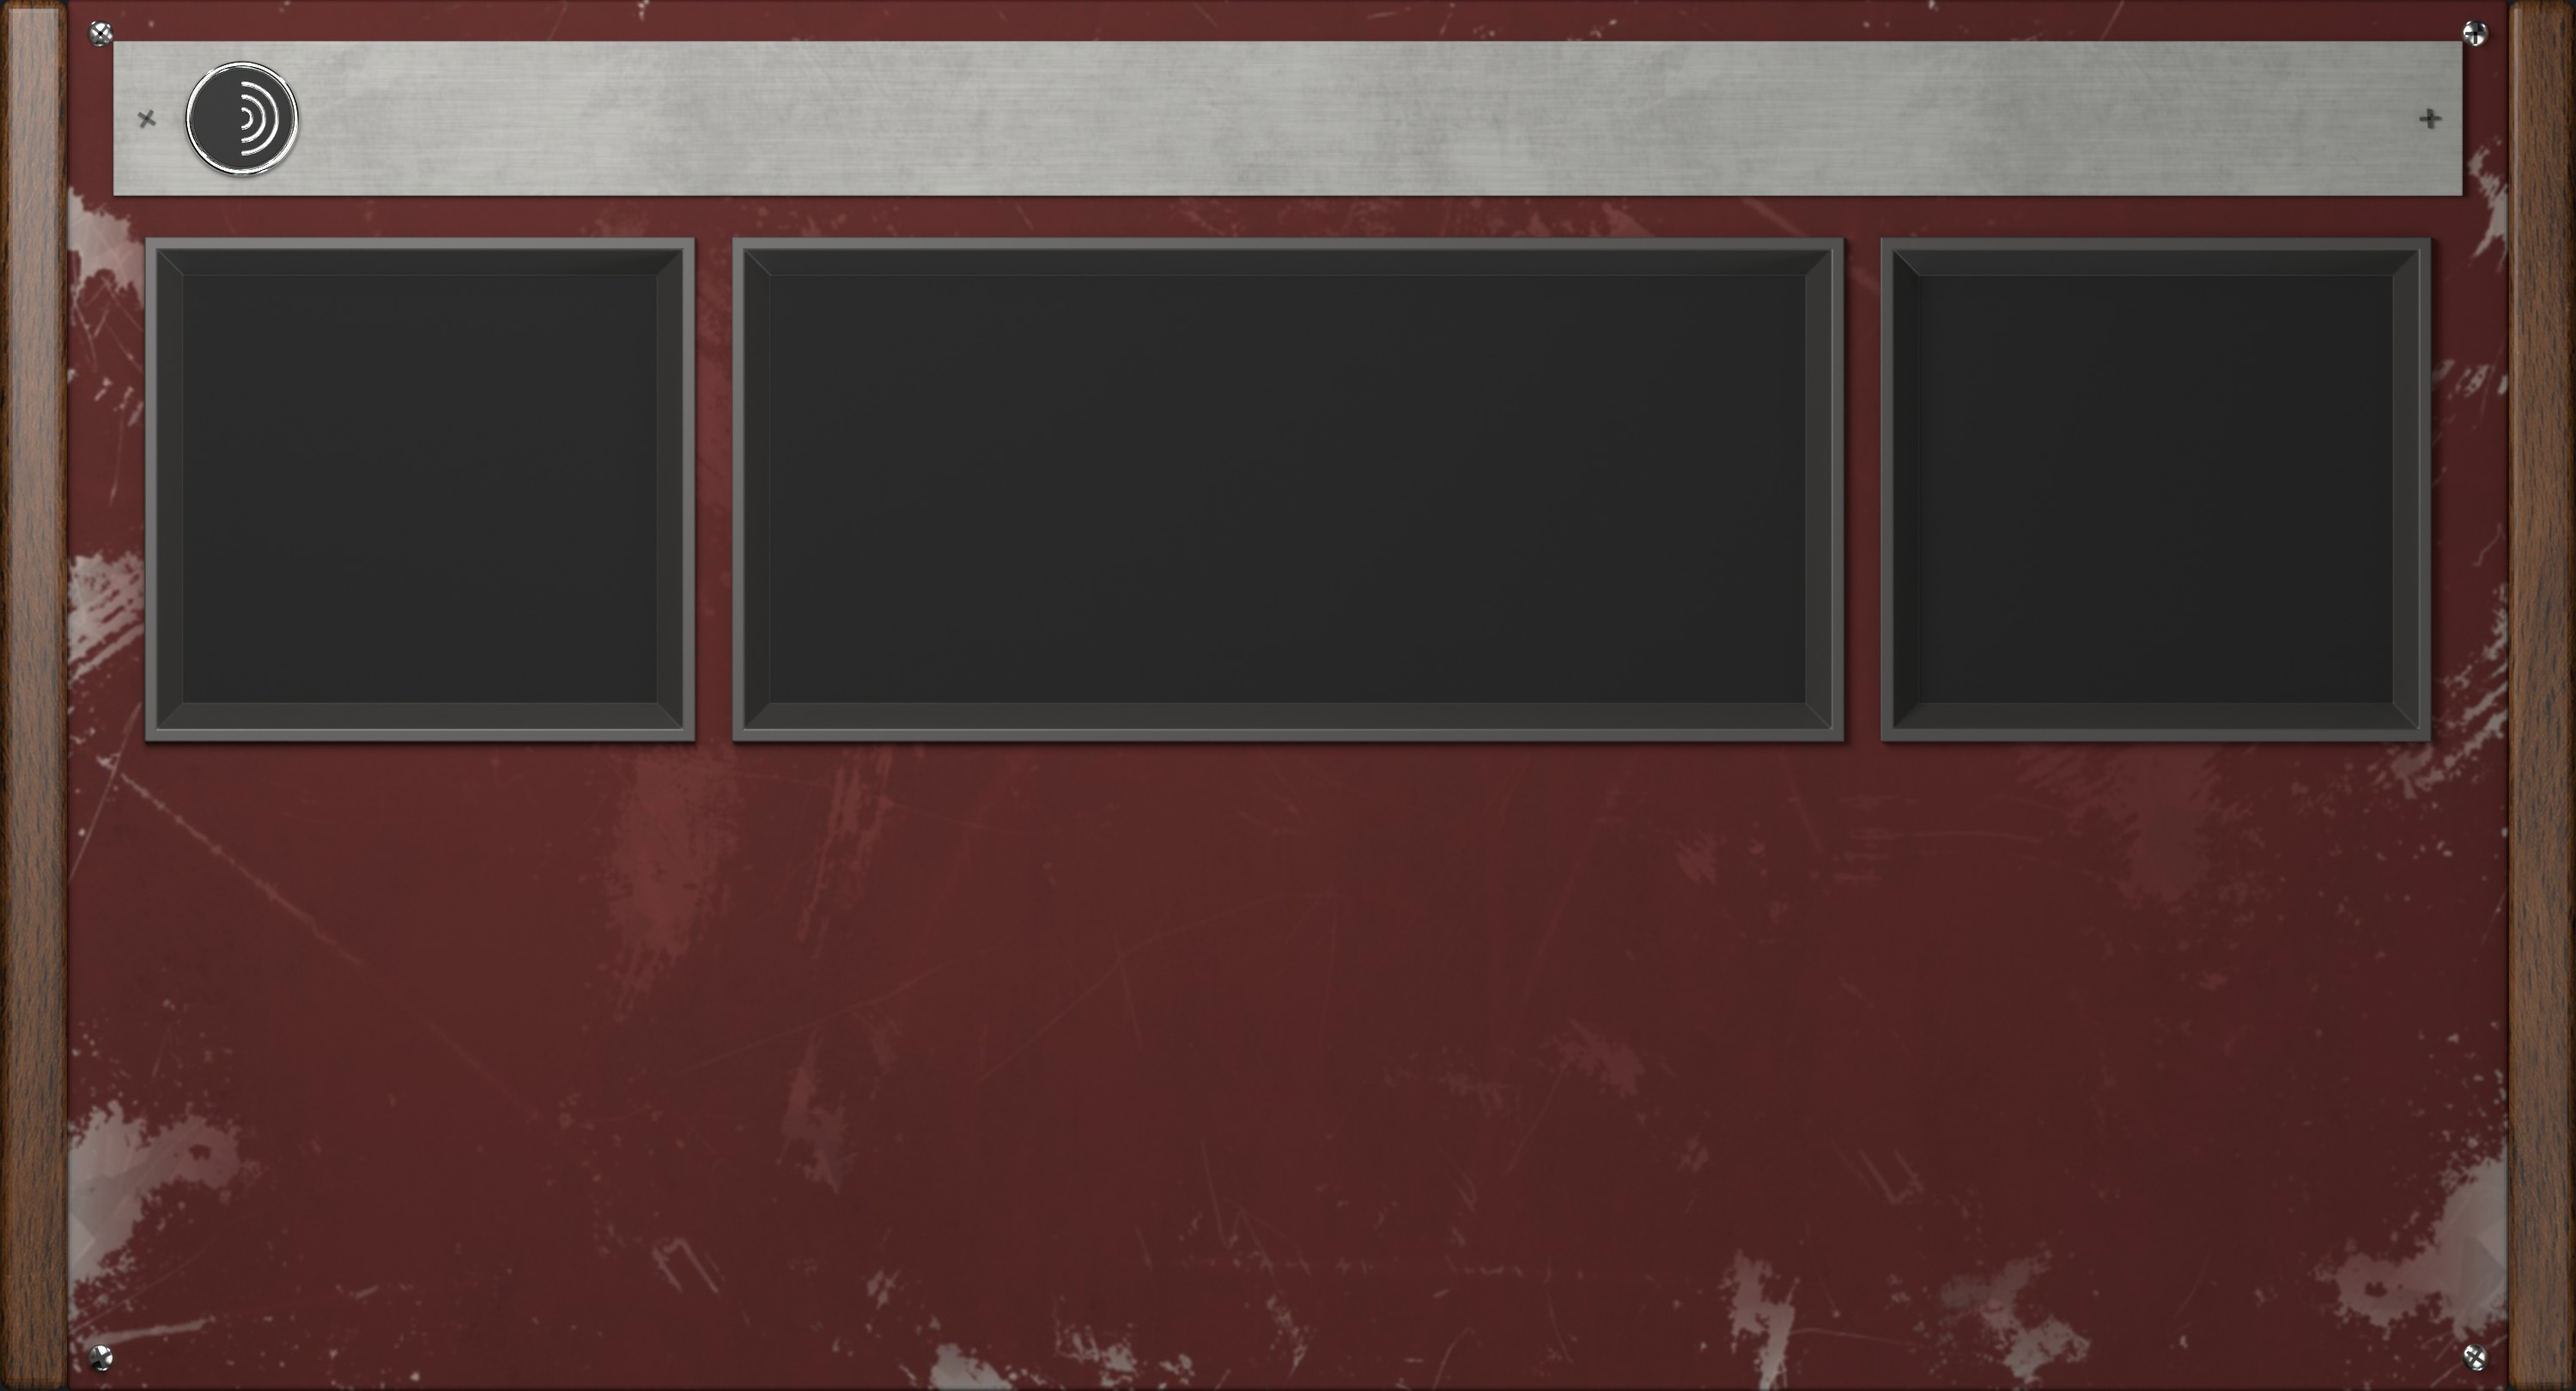
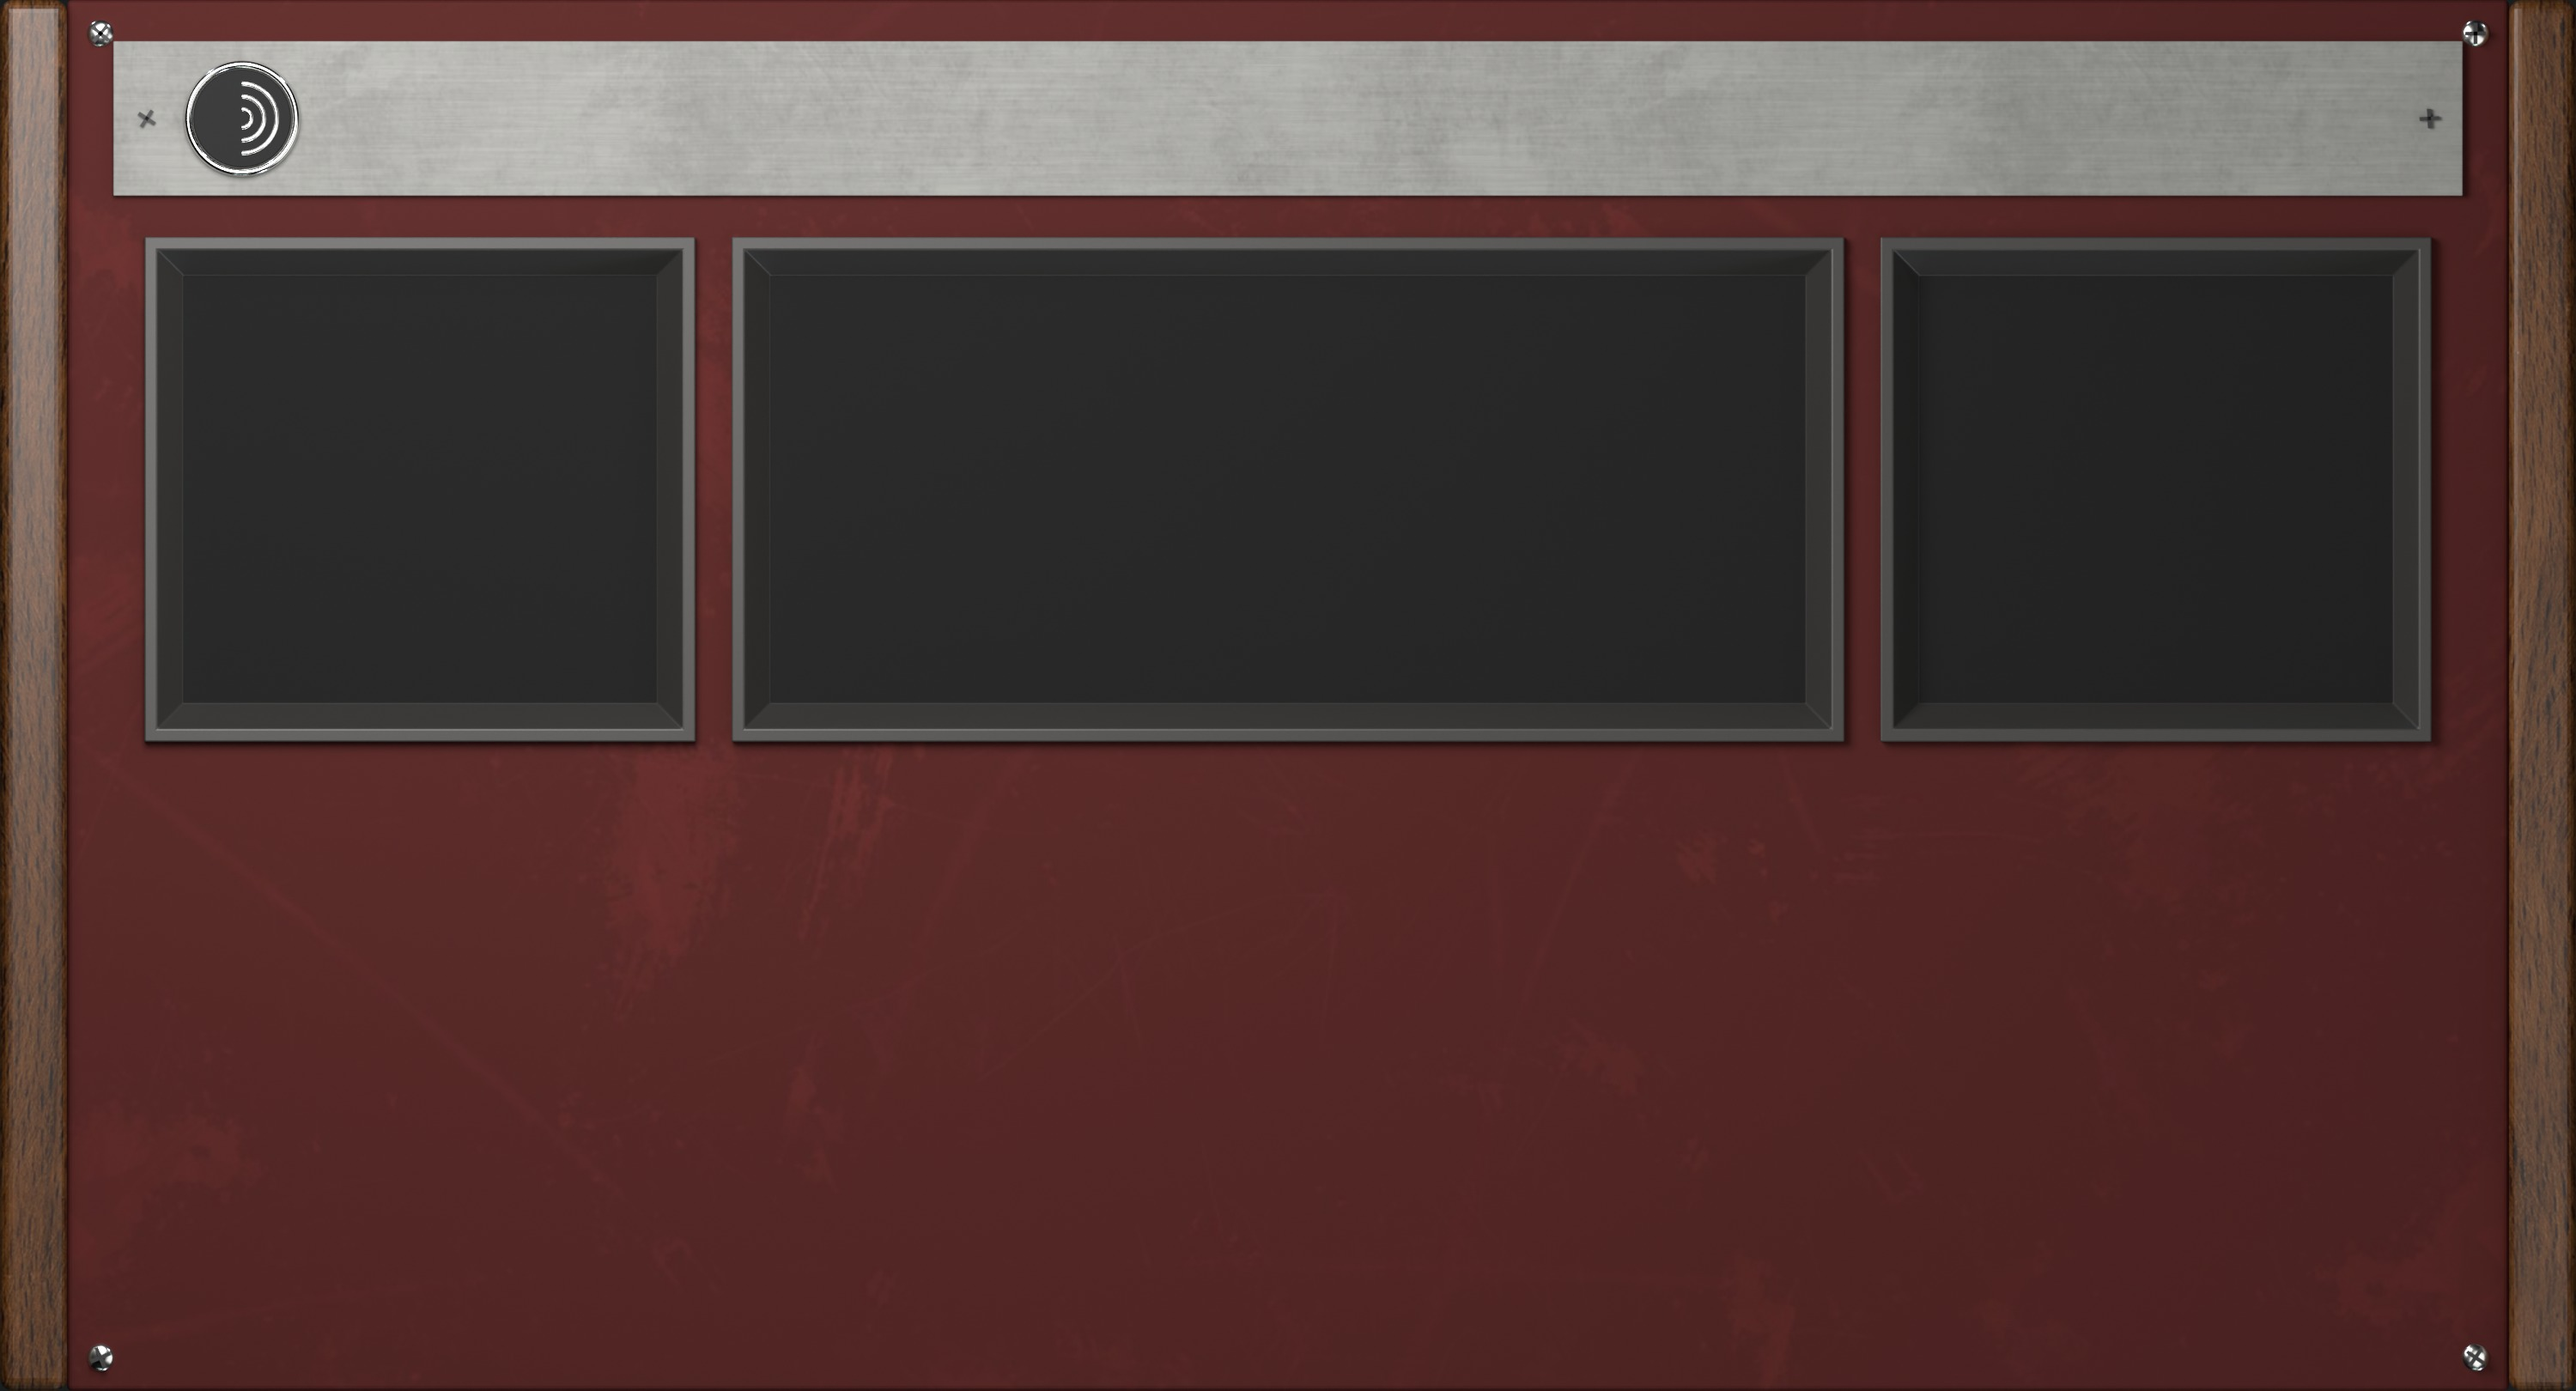
Clean finish: remove paint wear, grime, ink wear and glass smudges

diff --git a/tools/make_textures.py b/tools/make_textures.py
@@ -1,7 +1,7 @@
 """
 Bakes the UI textures in Resources/ from CC0 photo-scanned materials by ambientCG (https://ambientcg.com):
 
-    PaintedMetal004, Metal011, Wood066, SurfaceImperfections003, Fingerprints002  (1K-JPG versions)
+    PaintedMetal004, Metal011, Wood066, SurfaceImperfections003  (1K-JPG versions)
 
 Usage:
     python3 tools/make_textures.py <folder with the unzipped ambientCG downloads>
@@ -59,7 +59,7 @@ rough_src = load("PaintedMetal004", "Roughness")
 grime_src = load("SurfaceImperfections003", "Opacity")
 
 
-def painted_panel(w, h, base_rgb, chip_strength, offset, seed):
+def painted_panel(w, h, base_rgb, chip_strength, offset, seed, grime_amount=0.16):
     rng = np.random.default_rng(seed)
     base = np.array(base_rgb, np.float32) / 255.0
 
@@ -72,7 +72,7 @@ def painted_panel(w, h, base_rgb, chip_strength, offset, seed):
     wear = 0.05 + 0.95 * edge_weight(w, h, 38.0 * S)
     chip_alpha = np.clip(chips * wear * chip_strength, 0, 1)
 
-    shade = 1.0 + 0.03 * rough - 0.16 * grime + 0.015 * rng.standard_normal((h, w)).astype(np.float32)
+    shade = 1.0 + 0.03 * rough - grime_amount * grime + 0.006 * rng.standard_normal((h, w)).astype(np.float32)
     paint = base[None, None, :] * shade[..., None]
 
     steel = np.array([0.56, 0.55, 0.53], np.float32)[None, None, :] * (0.85 + 0.08 * rough[..., None])
@@ -80,8 +80,9 @@ def painted_panel(w, h, base_rgb, chip_strength, offset, seed):
     return out
 
 
-save(painted_panel(UNIT_W, TOP_H * S, (79, 31, 29), 0.85, (0, 0), 1), "panel_burgundy.jpg")
-save(painted_panel(UNIT_W, BOTTOM_H * S, (28, 27, 26), 0.32, (311, 517), 2), "panel_black.jpg")
+# Clean, well-kept finish: no chips or grime, only the paint's own subtle texture.
+save(painted_panel(UNIT_W, TOP_H * S, (79, 31, 29), 0.0, (0, 0), 1, grime_amount=0.0), "panel_burgundy.jpg")
+save(painted_panel(UNIT_W, BOTTOM_H * S, (28, 27, 26), 0.0, (311, 517), 2, grime_amount=0.0), "panel_black.jpg")
 
 # Brushed aluminium name plate (grain runs horizontally)
 alu = load("Metal011", "Color")
@@ -96,16 +97,3 @@ cheek_w, cheek_h = CHEEK_W * S, (TOP_H + BOTTOM_H) * S
 left = tile(wood[:, 180:180 + cheek_w], cheek_w, cheek_h)
 right = tile(wood[:, 640:640 + cheek_w], cheek_w, cheek_h, (400, 0))
 save(np.concatenate([left, right], axis=1) * 0.92, "wood_cheeks.jpg")
-
-# Fingerprints/smudges for glass (used as a faint white alpha mask)
-prints = load("Fingerprints002", "Opacity")
-img = Image.fromarray((prints * 255).astype(np.uint8)).resize((512, 512), Image.LANCZOS)
-img.save(os.path.join(OUT, "glass_smudges.jpg"), quality=85)
-print("glass_smudges.jpg", img.size)
-
-# Wear mask for silkscreen ink: mostly opaque, with small rubbed-off spots and hairline scratches.
-chips = Image.fromarray((chips_src * 255).astype(np.uint8)).resize((512, 512), Image.LANCZOS)
-c = np.asarray(chips, dtype=np.float32) / 255.0
-ink = np.clip(1.0 - 0.85 * c, 0.0, 1.0) * (0.9 + 0.1 * load("PaintedMetal004", "Roughness")[:512, :512])
-Image.fromarray((np.clip(ink, 0, 1) * 255).astype(np.uint8)).save(os.path.join(OUT, "ink_wear.png"), optimize=True)
-print("ink_wear.png", (512, 512))

diff --git a/Source/AnalogLookAndFeel.h b/Source/AnalogLookAndFeel.h
@@ -31,7 +31,7 @@ namespace Analog
     }
 
     //==========================================================================
-    // Embedded art shared by every editor instance: fonts, sprite sheets, ink wear.
+    // Embedded art shared by every editor instance: fonts and sprite sheets.
     // Kept alive by the LookAndFeel (SharedResourcePointer), so lookups elsewhere are cheap.
     struct Art
     {
@@ -49,28 +49,10 @@ namespace Analog
             chicken = load (knob_chicken_png, knob_chicken_pngSize);
             toggle  = load (toggle_png, toggle_pngSize);
             power   = load (power_png, power_pngSize);
-            inkMask = load (ink_wear_png, ink_wear_pngSize);
-        }
-
-        // Ink that has rubbed off in places: a tiled fill whose alpha comes from a scanned wear map.
-        const juce::Image& inkFor (juce::Colour c)
-        {
-            auto& img = inkCache[c.getARGB()];
-            if (img.isNull())
-            {
-                img = juce::Image (juce::Image::ARGB, inkMask.getWidth(), inkMask.getHeight(), true);
-                juce::Image::BitmapData in (inkMask, juce::Image::BitmapData::readOnly);
-                juce::Image::BitmapData out (img, juce::Image::BitmapData::writeOnly);
-                for (int y = 0; y < img.getHeight(); ++y)
-                    for (int x = 0; x < img.getWidth(); ++x)
-                        out.setPixelColour (x, y, c.withMultipliedAlpha (1.0f - 0.38f * (1.0f - in.getPixelColour (x, y).getFloatRed())));
-            }
-            return img;
         }
 
         juce::Typeface::Ptr silk, silkBold, ui, vfd;
-        juce::Image alu, black, chicken, toggle, power, inkMask;
-        std::map<juce::uint32, juce::Image> inkCache;
+        juce::Image alu, black, chicken, toggle, power;
     };
 
     inline Art& art() { return *juce::SharedResourcePointer<Art>(); }
@@ -83,11 +65,10 @@ namespace Analog
     inline juce::Font uiFont (float size) { return juce::Font (juce::FontOptions (art().ui).withHeight (size)); }
     inline juce::Font mono (float size)   { return juce::Font (juce::FontOptions (art().vfd).withHeight (size * 1.12f)); }
 
-    // Silkscreen ink: solid colour modulated by the wear map, anchored to the panel so the
-    // wear pattern does not shift between neighbouring components.
-    inline void setInk (juce::Graphics& g, juce::Colour c, juce::Point<int> originInPanel = {})
+    // Silkscreen ink.
+    inline void setInk (juce::Graphics& g, juce::Colour c, juce::Point<int> = {})
     {
-        g.setTiledImageFill (art().inkFor (c), -originInPanel.x, -originInPanel.y, 1.0f);
+        g.setColour (c); // clean, unworn print
     }
 
     inline juce::Point<int> panelOrigin (const juce::Component& c)

diff --git a/Source/PluginEditor.cpp b/Source/PluginEditor.cpp
@@ -10,35 +10,6 @@ static const juce::Rectangle<int> inputWell { 56, 92, 214, 196 }, scopeWell { 28
 static const juce::Rectangle<int> namePlate { 44, 16, 912, 60 };
 static constexpr int wellInset = 15; // face/screen starts at the bottom of the sloped well walls
 
-//==============================================================================
-// Greyscale smudge scan turned into an alpha mask, shared by every piece of glass.
-struct GlassSmudges
-{
-    GlassSmudges()
-    {
-        auto src = juce::ImageCache::getFromMemory (BinaryData::glass_smudges_jpg, BinaryData::glass_smudges_jpgSize);
-        mask = juce::Image (juce::Image::SingleChannel, src.getWidth(), src.getHeight(), false);
-        juce::Image::BitmapData in (src, juce::Image::BitmapData::readOnly);
-        juce::Image::BitmapData out (mask, juce::Image::BitmapData::writeOnly);
-        for (int y = 0; y < src.getHeight(); ++y)
-            for (int x = 0; x < src.getWidth(); ++x)
-                *out.getPixelPointer (x, y) = in.getPixelColour (x, y).getGreen();
-    }
-    juce::Image mask;
-};
-
-static void drawGlassSmudges (juce::Graphics& g, juce::Rectangle<float> glass, float alpha, int seed)
-{
-    juce::SharedResourcePointer<GlassSmudges> smudges;
-    const auto& m = smudges->mask;
-    const int sx = (seed * 173) % (m.getWidth() / 2), sy = (seed * 97) % (m.getHeight() / 2);
-    juce::Graphics::ScopedSaveState save (g);
-    g.reduceClipRegion (glass.toNearestInt());
-    g.setColour (juce::Colours::white.withAlpha (alpha));
-    g.drawImage (m, (int) glass.getX(), (int) glass.getY(), (int) glass.getWidth(), (int) glass.getHeight(),
-                 sx, sy, m.getWidth() / 2, m.getHeight() / 2, true);
-}
-
 // Short numbers for printed scales: 2 significant digits, "k" for thousands.
 static juce::String scaleNumber (float v)
 {
@@ -278,7 +249,6 @@ void VUMeter::paint (juce::Graphics& g)
                                        juce::Colours::transparentWhite, face.getX() + face.getWidth() * 0.4f, face.getCentreY(), false));
     g.fillPath (glare);
 
-    drawGlassSmudges (g, face, 0.09f, (int) mode + 1);
     drawJewel (g, { face.getRight() - 13.0f, face.getY() + 15.0f }, 3.5f, Palette::lampRed, peakLamp);
 }
 
@@ -358,7 +328,6 @@ void EchoScope::paint (juce::Graphics& g)
         g.setGradientFill (ColourGradient (juce::Colours::white.withAlpha (0.10f), screen.getX(), screen.getY(),
                                            juce::Colours::transparentWhite, screen.getX() + screen.getWidth() * 0.35f, screen.getCentreY(), false));
         g.fillRect (screen);
-        drawGlassSmudges (g, screen, 0.07f, 3);
     }
 
     g.setColour (juce::Colours::black);

diff --git a/README.md b/README.md
@@ -98,7 +98,7 @@ cmake --build build --config Release
 
 ## Текстуры
 Текстуры интерфейса запечены скриптом `tools/make_textures.py` из бесплатных (CC0) фотосканов
-[ambientCG](https://ambientcg.com): PaintedMetal004, Metal011, Wood066, SurfaceImperfections003, Fingerprints002.
+[ambientCG](https://ambientcg.com): PaintedMetal004, Metal011, Wood066, SurfaceImperfections003.
 Лицевые панели (`tools/render_faceplate.py`), ручки и тумблеры (`tools/render_controls.py`, 120 кадров
 поворота на ручку) отрендерены в Blender; спрайты собирает `tools/pack_controls.py`.
 Шрифты Barlow / Barlow Condensed и Share Tech Mono — SIL Open Font License (`Resources/fonts/OFL*.txt`).
